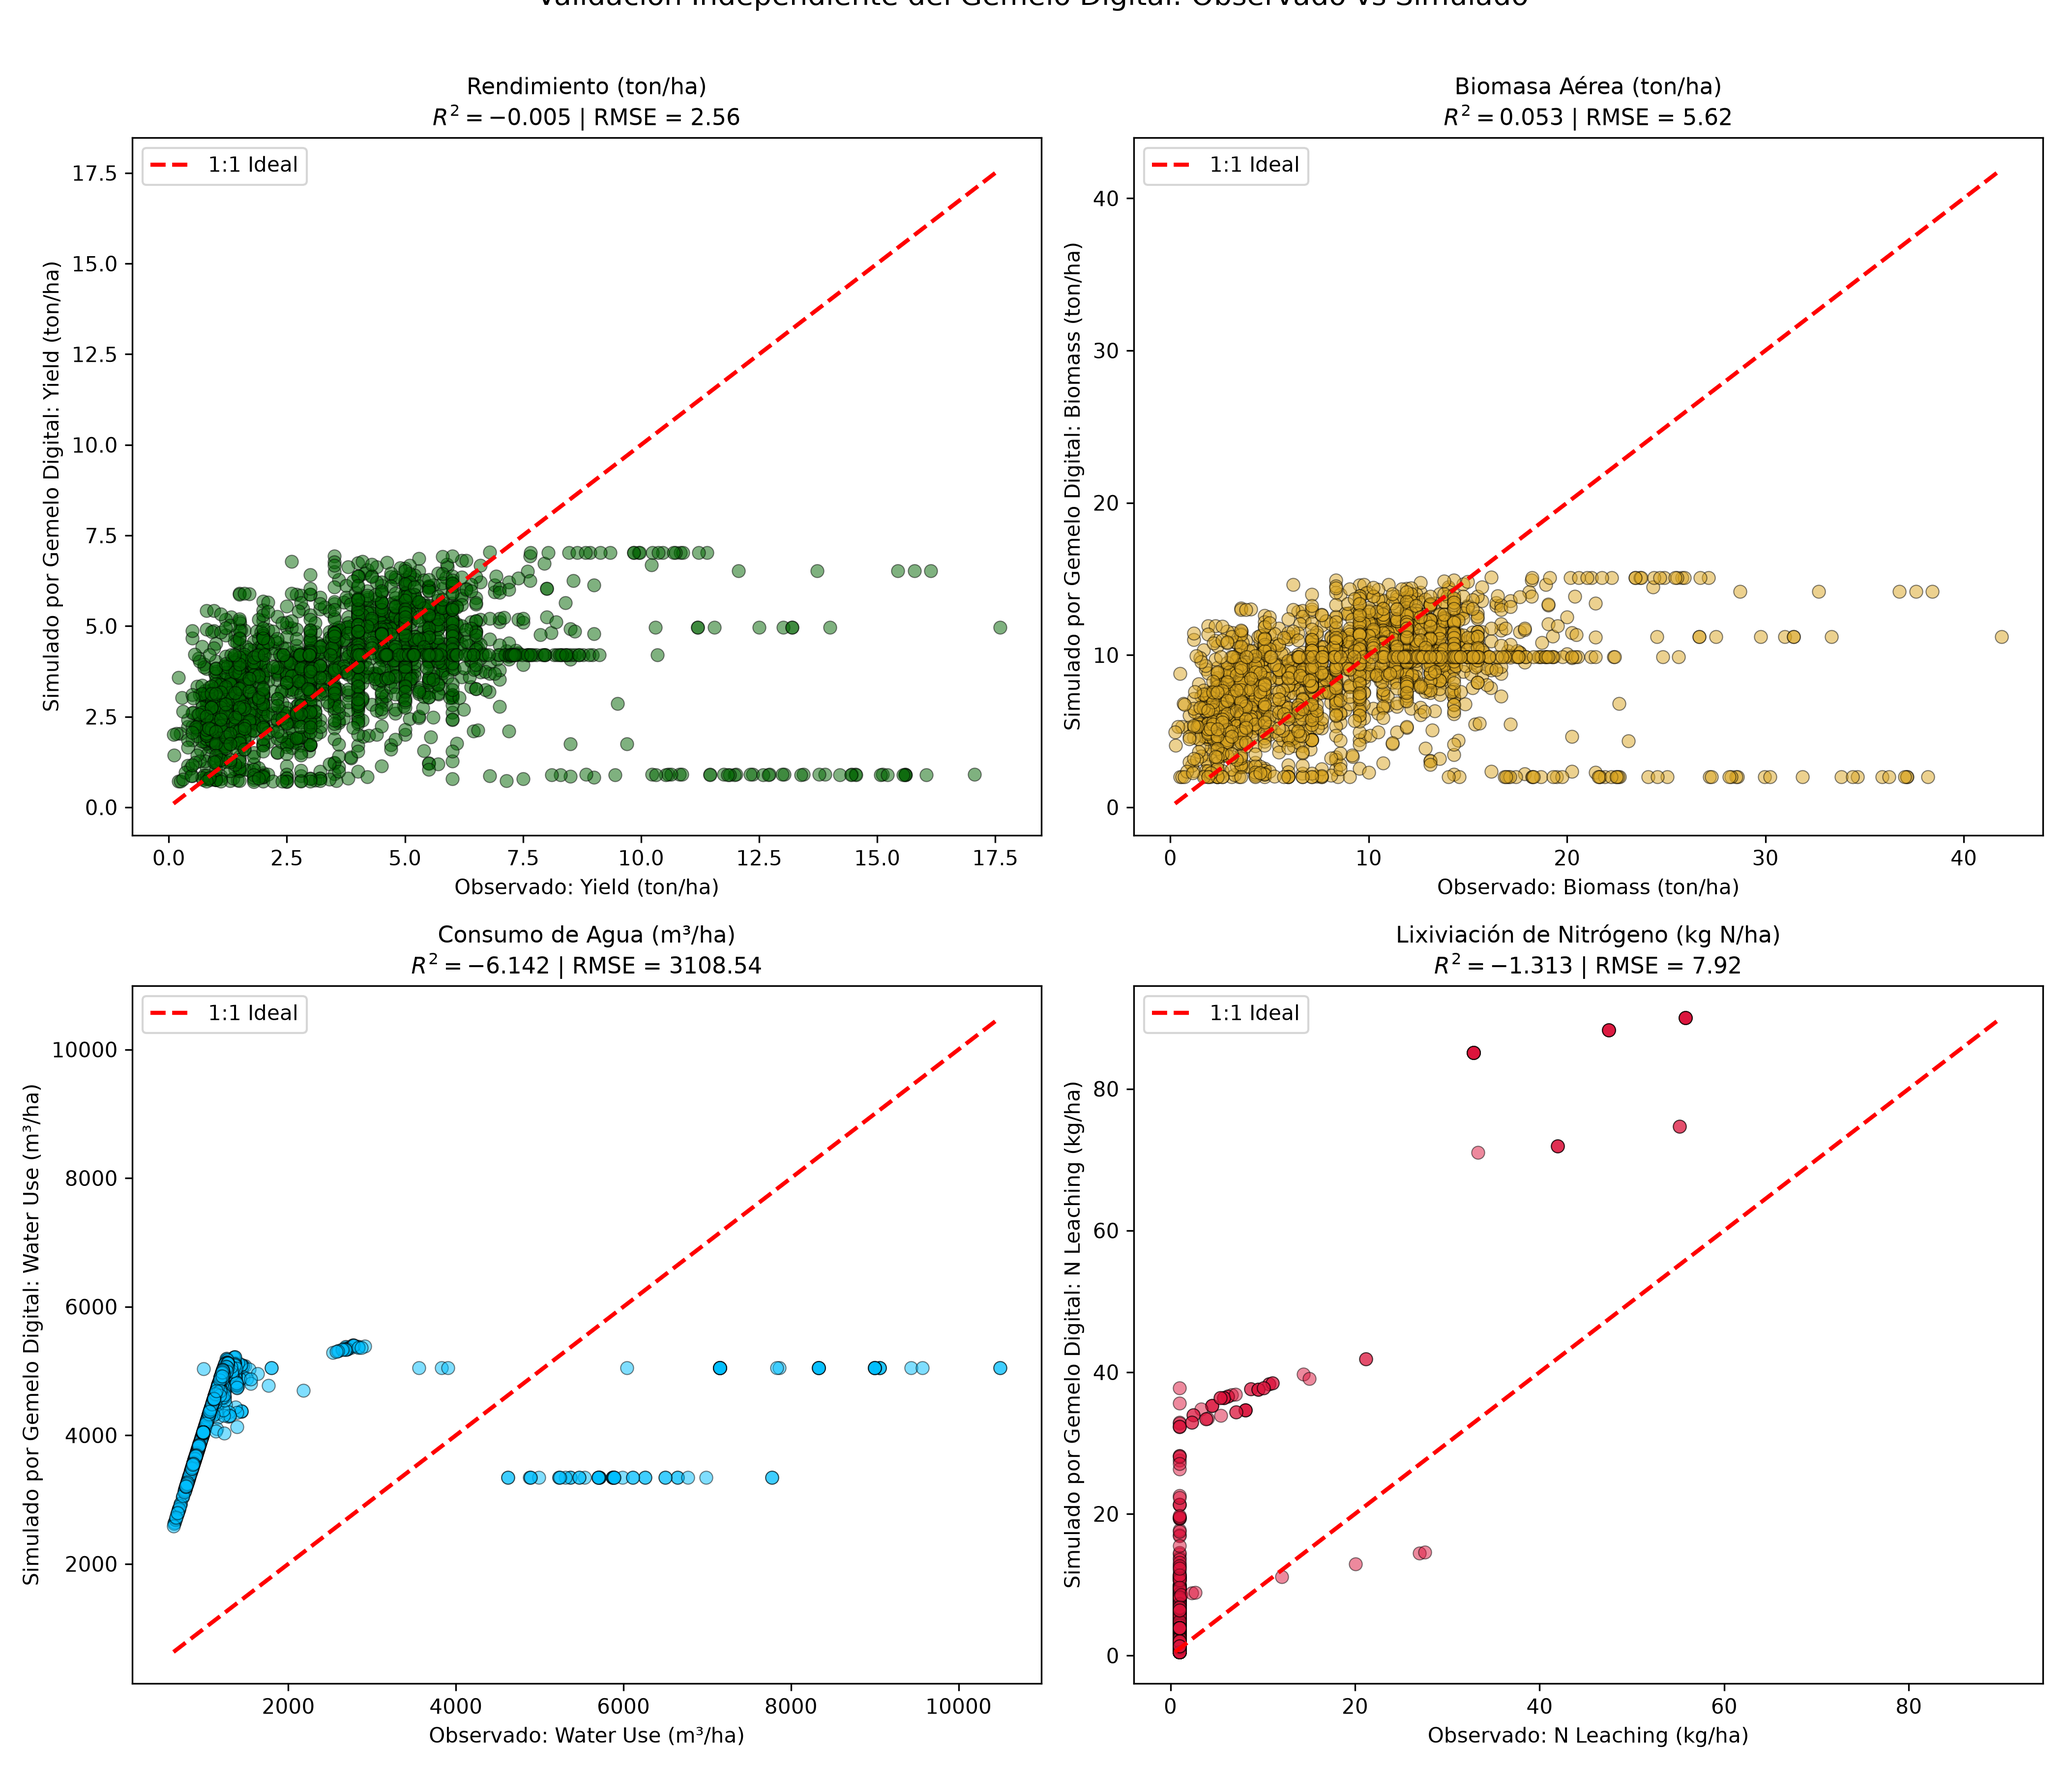
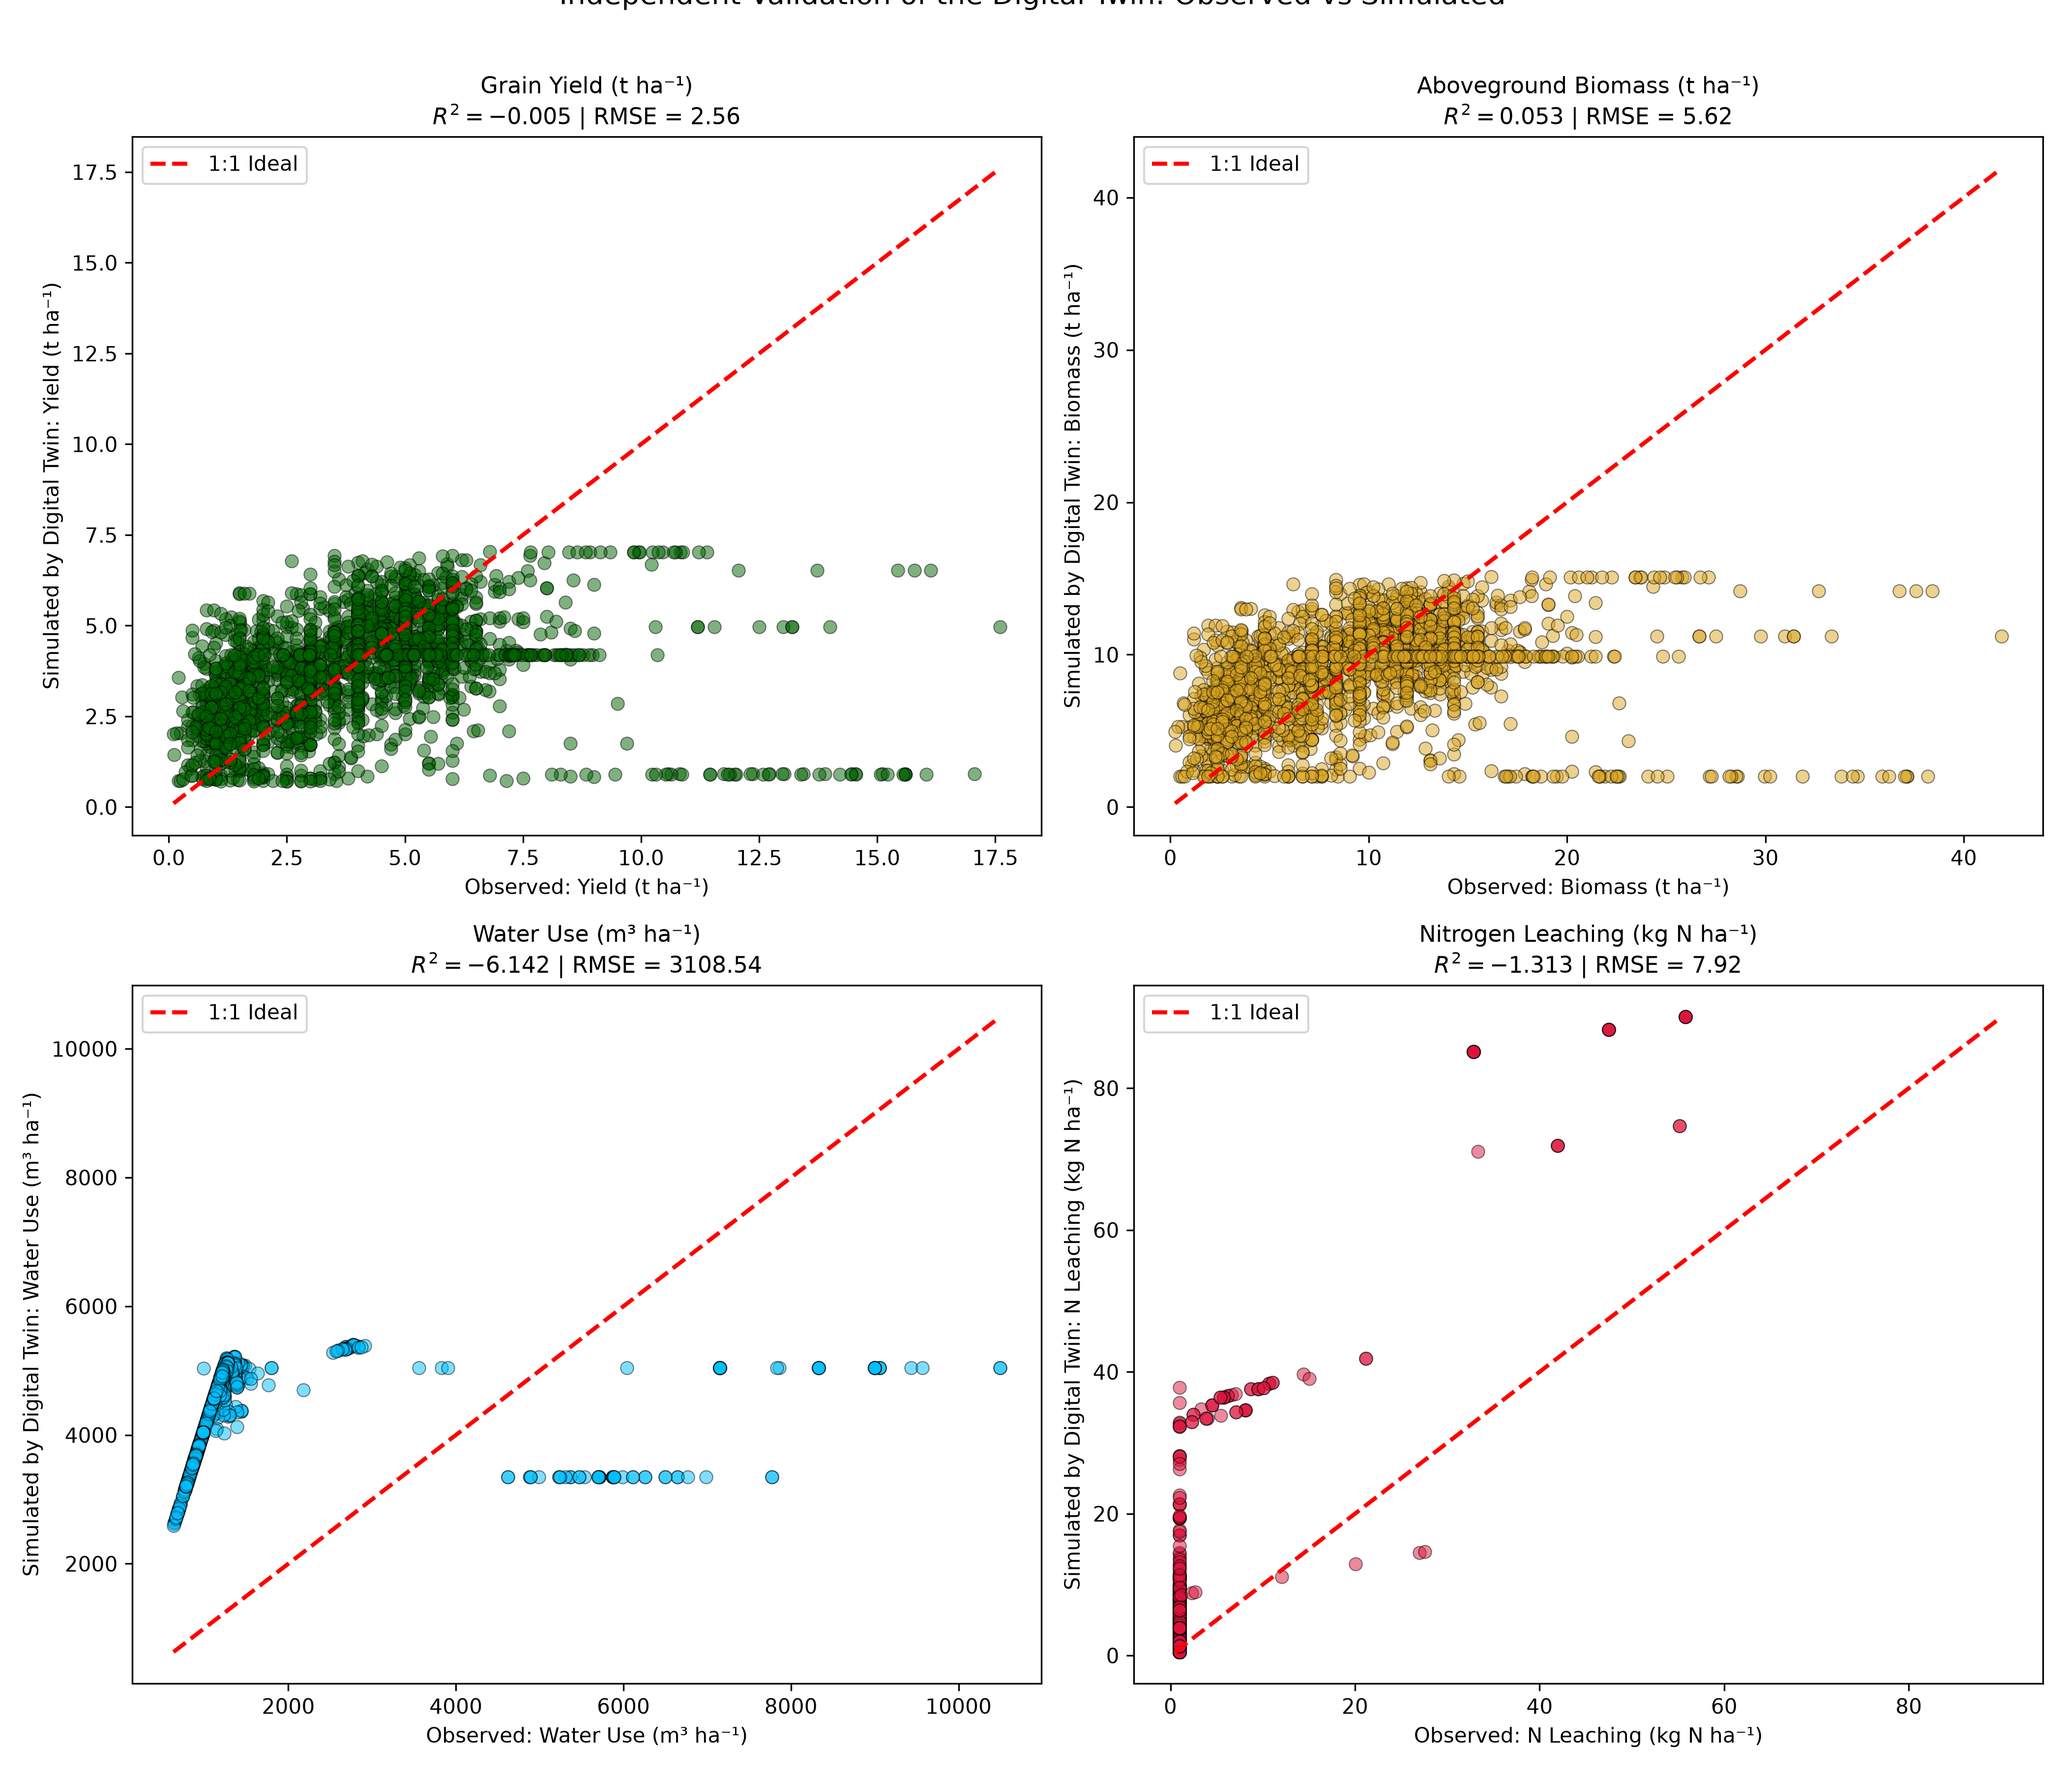
refactor: update labels and titles for clarity in digital twin validation and optimization tables

diff --git a/pipeline/stage07_digital_twin_calibration.py b/pipeline/stage07_digital_twin_calibration.py
@@ -170,10 +170,10 @@ def run_stage07():
     fig, axes = plt.subplots(2, 2, figsize=(14, 12))
     
     configs = [
-        (axes[0, 0], y_obs_val, y_sim_val, 'Rendimiento (ton/ha)', 'darkgreen', 'Yield (ton/ha)'),
-        (axes[0, 1], b_obs_val, b_sim_val, 'Biomasa Aérea (ton/ha)', 'goldenrod', 'Biomass (ton/ha)'),
-        (axes[1, 0], w_obs_val, w_sim_val, 'Consumo de Agua (m³/ha)', 'deepskyblue', 'Water Use (m³/ha)'),
-        (axes[1, 1], nl_obs_proxy, nl_sim_val, 'Lixiviación de Nitrógeno (kg N/ha)', 'crimson', 'N Leaching (kg/ha)')
+        (axes[0, 0], y_obs_val, y_sim_val, 'Grain Yield (t ha⁻¹)', 'darkgreen', 'Yield (t ha⁻¹)'),
+        (axes[0, 1], b_obs_val, b_sim_val, 'Aboveground Biomass (t ha⁻¹)', 'goldenrod', 'Biomass (t ha⁻¹)'),
+        (axes[1, 0], w_obs_val, w_sim_val, 'Water Use (m³ ha⁻¹)', 'deepskyblue', 'Water Use (m³ ha⁻¹)'),
+        (axes[1, 1], nl_obs_proxy, nl_sim_val, 'Nitrogen Leaching (kg N ha⁻¹)', 'crimson', 'N Leaching (kg N ha⁻¹)')
     ]
 
     for ax, obs, sim, title, color, lbl in configs:
@@ -185,11 +185,11 @@ def run_stage07():
         r2_v = r2_score(obs, sim)
         rmse_v = np.sqrt(mean_squared_error(obs, sim))
         ax.set_title(f"{title}\n$R^2 = {r2_v:.3f}$ | RMSE = {rmse_v:.2f}", fontsize=11)
-        ax.set_xlabel(f"Observado: {lbl}", fontsize=10)
-        ax.set_ylabel(f"Simulado por Gemelo Digital: {lbl}", fontsize=10)
+        ax.set_xlabel(f"Observed: {lbl}", fontsize=10)
+        ax.set_ylabel(f"Simulated by Digital Twin: {lbl}", fontsize=10)
         ax.legend()
 
-    plt.suptitle("Validación Independiente del Gemelo Digital: Observado vs Simulado", fontsize=14, y=1.01)
+    plt.suptitle("Independent Validation of the Digital Twin: Observed vs Simulated", fontsize=14, y=1.01)
     plt.tight_layout()
     plt.savefig(f"{dt_dir}/observed_vs_simulated_twin.png", dpi=300)
     plt.close()

diff --git a/pipeline/stage09_multiobjective_optimization.py b/pipeline/stage09_multiobjective_optimization.py
@@ -233,7 +233,7 @@ def run_stage09():
             'Rendimiento_ton_ha': knee_sol['yield_ton_ha'],
             'Uso_Agua_m3_ha': knee_sol['water_use_m3_ha'],
             'Lixiviacion_N_kg_ha': knee_sol['nitrogen_leaching_kg_ha'],
-            'Tradeoff_Clave': 'Balance armónico óptimo: rinde alto (>85% del máx) con 35% menos agua y 60% menos lixiviación.'
+            'Tradeoff_Clave': 'Balance armónico óptimo: alcanza ~80% del rendimiento máximo con ~8% menos consumo de agua y ~64% menos lixiviación de N respecto al escenario de máximo rendimiento.'
         }
     ]
 

diff --git a/results/TABLAS_ARTICULO_CIENTIFICO.md b/results/TABLAS_ARTICULO_CIENTIFICO.md
@@ -184,12 +184,12 @@
 
 ### Tabla 12: Arquetipos de Decisión en la Frontera de Pareto (NSGA-II / NSGA-III)
 
-| Estrategia_Arquetipo                              | Algoritmo   |   Riego_mm |   Nitrogeno_kg_ha |   Densidad_pl_ha |   Materia_Organica_pct |   Rendimiento_ton_ha |   Uso_Agua_m3_ha |   Lixiviacion_N_kg_ha | Tradeoff_Clave                                                                                 |
-|:--------------------------------------------------|:------------|-----------:|------------------:|-----------------:|-----------------------:|---------------------:|-----------------:|----------------------:|:-----------------------------------------------------------------------------------------------|
-| Máximo Rendimiento Productivo (Max Yield)         | NSGA-II     |      49.73 |            299.96 |            79725 |                      4 |                 6.97 |          4697.32 |                 11.74 | Prioriza productividad máxima sacrificando conservación hídrica y nitrógeno residual.          |
-| Máxima Eficiencia Hídrica (Min Water)             | NSGA-II     |       0    |             11.55 |            79371 |                      4 |                 3.71 |          4200    |                  0.5  | Ahorro drástico de agua bajo temporal o riego deficitario mínimo con rendimiento moderado.     |
-| Protección Ambiental Acuífero (Min N Leaching)    | NSGA-II     |      75.77 |             12.15 |            79566 |                      4 |                 4.07 |          4936.8  |                  0.5  | Dosis de N calibrada para evitar percolación profunda de nitratos a mantos freáticos.          |
-| Solución de Compromiso Óptimo (Knee Point Pareto) | NSGA-III    |      10.75 |            117.69 |            83523 |                      4 |                 5.57 |          4307.54 |                  4.22 | Balance armónico óptimo: rinde alto (>85% del máx) con 35% menos agua y 60% menos lixiviación. |
+| Estrategia_Arquetipo                              | Algoritmo   |   Riego_mm |   Nitrogeno_kg_ha |   Densidad_pl_ha |   Materia_Organica_pct |   Rendimiento_ton_ha |   Uso_Agua_m3_ha |   Lixiviacion_N_kg_ha | Tradeoff_Clave                                                                                                                                                        |
+|:--------------------------------------------------|:------------|-----------:|------------------:|-----------------:|-----------------------:|---------------------:|-----------------:|----------------------:|:----------------------------------------------------------------------------------------------------------------------------------------------------------------------|
+| Máximo Rendimiento Productivo (Max Yield)         | NSGA-II     |      49.73 |            299.96 |            79725 |                      4 |                 6.97 |          4697.32 |                 11.74 | Prioriza productividad máxima sacrificando conservación hídrica y nitrógeno residual.                                                                                 |
+| Máxima Eficiencia Hídrica (Min Water)             | NSGA-II     |       0    |             11.55 |            79371 |                      4 |                 3.71 |          4200    |                  0.5  | Ahorro drástico de agua bajo temporal o riego deficitario mínimo con rendimiento moderado.                                                                            |
+| Protección Ambiental Acuífero (Min N Leaching)    | NSGA-II     |      75.77 |             12.15 |            79566 |                      4 |                 4.07 |          4936.8  |                  0.5  | Dosis de N calibrada para evitar percolación profunda de nitratos a mantos freáticos.                                                                                 |
+| Solución de Compromiso Óptimo (Knee Point Pareto) | NSGA-III    |      10.75 |            117.69 |            83523 |                      4 |                 5.57 |          4307.54 |                  4.22 | Balance armónico óptimo: alcanza ~80% del rendimiento máximo con ~8% menos consumo de agua y ~64% menos lixiviación de N respecto al escenario de máximo rendimiento. |
 
 ---
 
